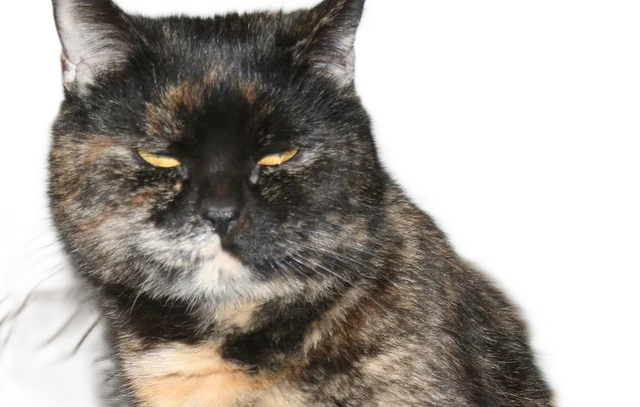
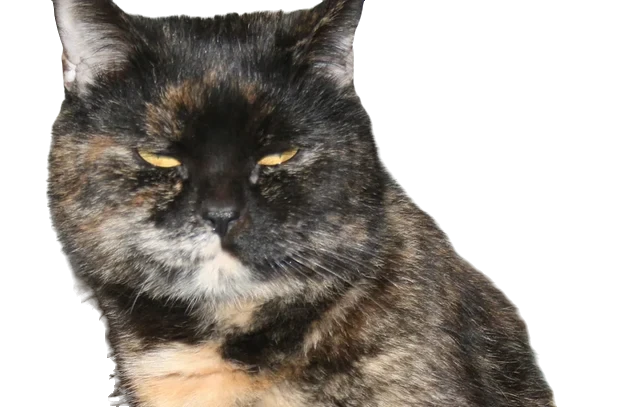
Bejka : détourage nettoyé (poils fantômes et liseré retirés)

diff --git a/index.html b/index.html
@@ -768,7 +768,7 @@
     <form class="contact-form" action="https://formspree.io/f/mwvgnzvg" method="POST">
       <div class="bejka-peek">
         <span class="bejka-peek__note" data-en="Bejka is proofreading your message">Bejka relit votre message</span>
-        <div class="bejka-peek__clip"><img src="assets/bejka-peek.webp" width="640" height="407" loading="lazy" alt="Bejka, mon chat, qui passe la tête au-dessus du formulaire" data-alt-en="Bejka, my cat, peeking over the form"></div>
+        <div class="bejka-peek__clip"><img src="assets/bejka-peek.webp?v=2" width="640" height="407" loading="lazy" alt="Bejka, mon chat, qui passe la tête au-dessus du formulaire" data-alt-en="Bejka, my cat, peeking over the form"></div>
       </div>
       <div class="contact-form__head">
         <span class="contact-form__eyebrow" data-en="Write to me">Écrivez-moi</span>
